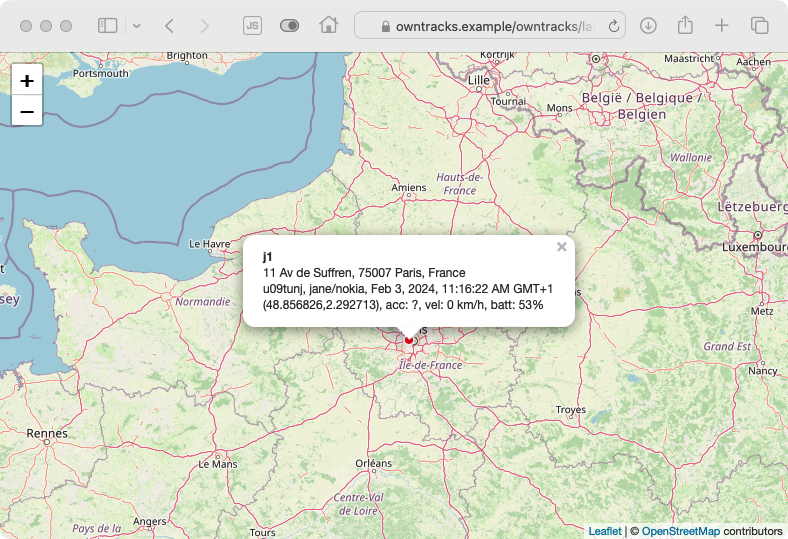
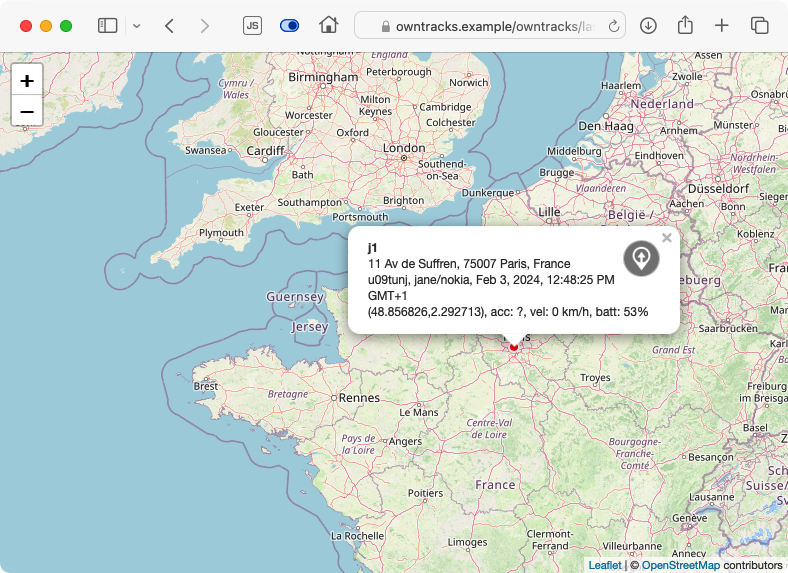
more changes

diff --git a/docs/features/comparison.md b/docs/features/comparison.md
@@ -14,18 +14,21 @@ of supported features is concernened. This table summarizes the current status.
 | Reconnection to broker                    |   Y    |   Y     |
 | Automatic PUB after move                  |   Y    |   Y     |
 | Automatic PUB after time                  |   Y    |   Y     |
-| Map with marker                           |   Y    |   Y     |
+| Move mode                                 |   Y    |   Y      |
+| Map with [TID](tid.md) markers            |   Y    |   Y     |
+| Support for [CARD](card.md) on map        |   Y    |   Y     |
 | Reverse geocoding on map                  |   Y    |   Y     |
+| Use of external geocoders (OpenCageData)  |        |   Y     |
 | Accuracy of last-known loc                |   Y    |   Y     |
 | Button for manual publish                 |   Y    |   Y     |
 | Configurable settings                     |   Y    |   Y     |
-| Move mode                                 |   Y    |   Y      |
+| [Remote and URL configuration](remoteconfig.md)   |   Y    |   Y      |
+| Configuration via [QR code](qr.md)        |   Y    |          |
 | Friends list                              |   Y    |   Y     |
 | Geofencing                                |   Y    |   Y     |
 | [Regions](waypoints.md)                   |   Y    |   Y     |
+| Transition events (enter / leave)         |   Y    |   Y     |
 | Location data (payload) [published as JSON](../tech/json.md) |   Y    |   Y     |
-| [Remote and URL configuration](remoteconfig.md)   |   Y    |   Y      |
-| Configuration via [QR code](qr.md)        |   Y    |          |
 | [iBeacons](beacons.md)                    |   Y    |          |
 | [Step-counting, a.k.a pedometer](pedometer.md)   |   Y    |         |
 | [Payload encryption](encrypt.md)          |   Y    |    Y    |
@@ -33,6 +36,8 @@ of supported features is concernened. This table summarizes the current status.
 | Submit [Points of Interest](poi.md) (POI) |   Y    |         |
 | On-device [Tour](tours.md) configuration  |   Y    |         |
 | Popup an [info tab](featured) on command  |   Y    |         |
+| [Debugging](debug.md) with on-device logs |   Y    |    Y    |
+| Supports POSTing [to Traccar](traccar.md) |   Y    |    Y    |
 
 
 ### Android

diff --git a/docs/guide/quicksetup.md b/docs/guide/quicksetup.md
@@ -118,7 +118,7 @@ Assuming the installer was successful, you can verify if the services are workin
 
       ![Index](qs//rabbit-10663.png)
 
-- map with live positions
+- map with live positions. The icon on the right of the info panel is what we call a [CARD](../features/card.md)
 
       ![map with live positions](qs//rabbit-10664.png)
 
